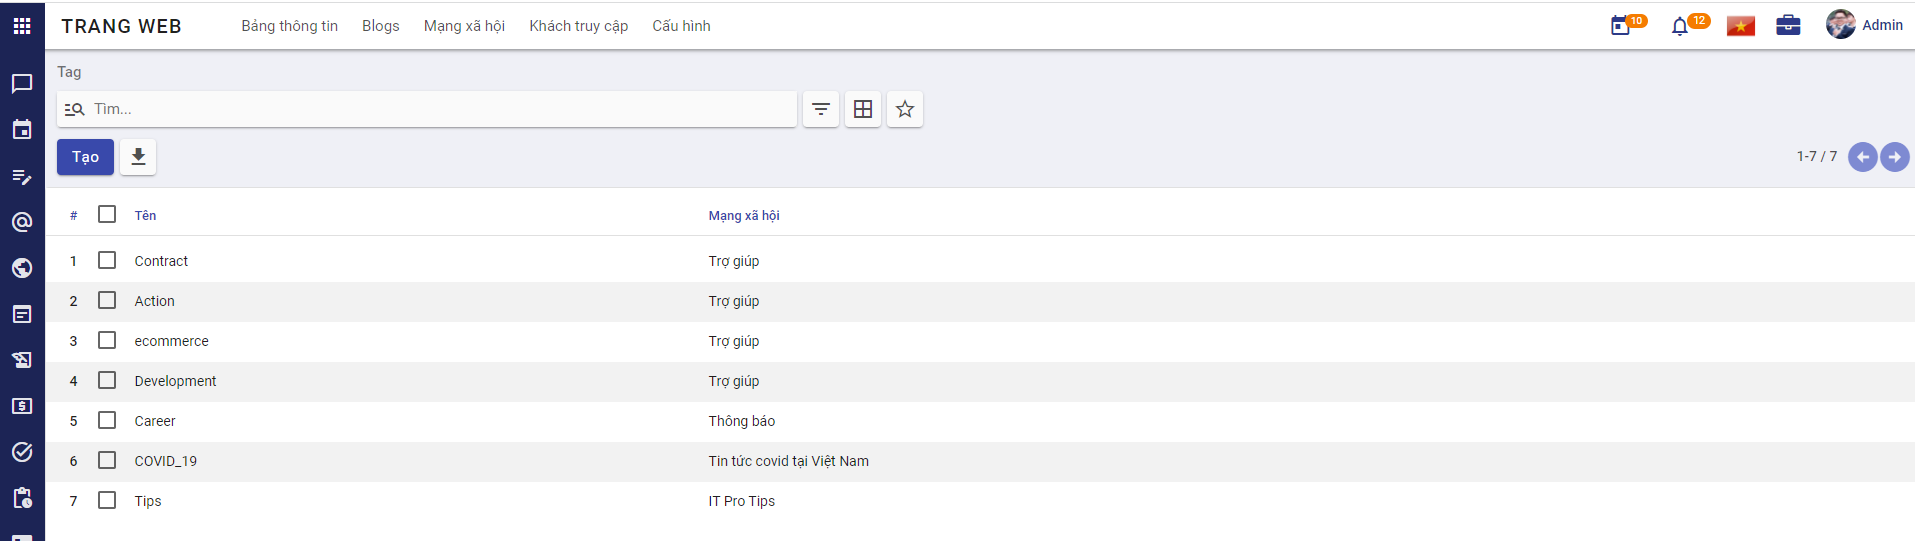
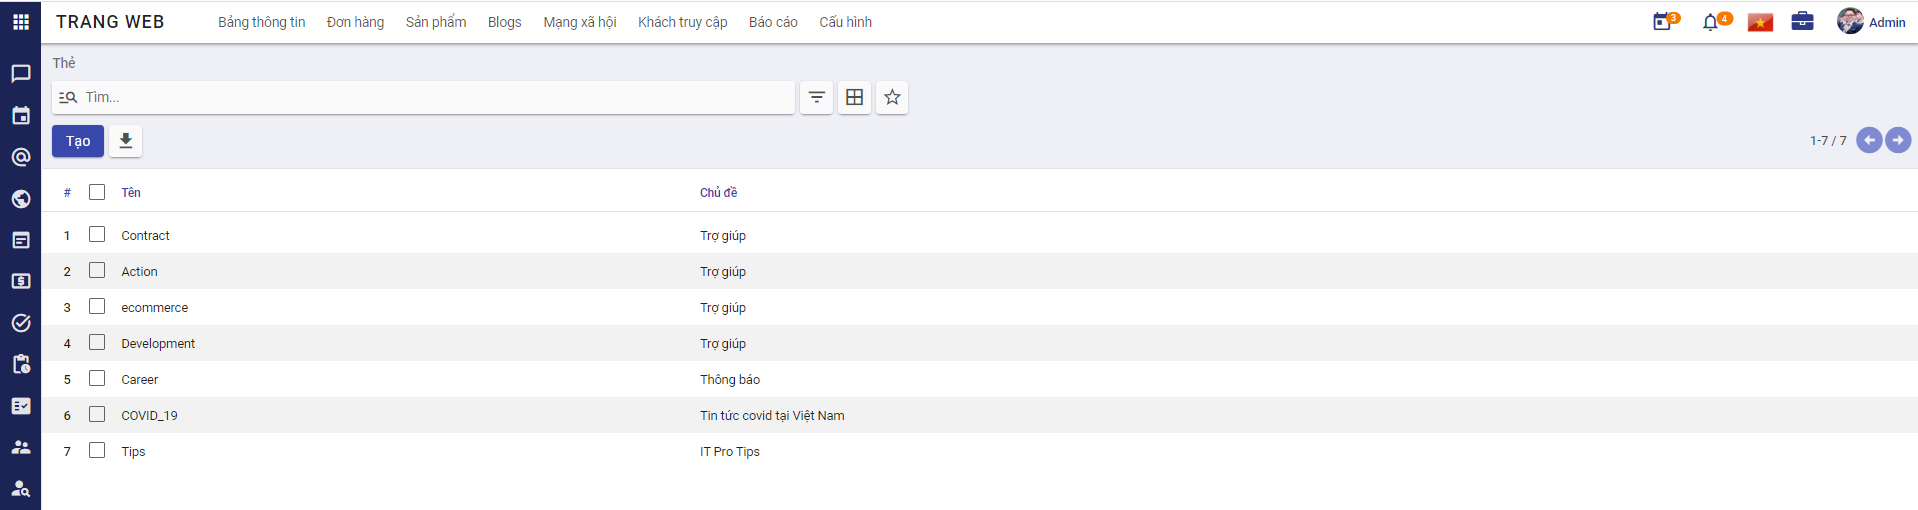
fix img social

diff --git a/docs/digitalworkplace/Addon-Social.md b/docs/digitalworkplace/Addon-Social.md
@@ -194,11 +194,13 @@ Người sử dụng thực hiện tạo các chủ đề cho mạng xã hội.
 
     ![](picture/PIC_DW_Social_ChuDe_1.png)
 
-2. Chọn tạo **Chủ đề**
+2. Chọn tạo **Chủ đề**  
+
+    ![](picture/PIC_DW_Social_ChuDe_2.png)
 
 3. Khai báo thông tin chung của **Chủ đề**
 
-    ![](picture/PIC_DW_Social_ChuDe_2.png)
+    ![](picture/PIC_DW_Social_ChuDe_3.png)
     
     * Khai báo Tên chủ đề
     
@@ -264,7 +266,7 @@ Cho phép người dùng xem danh sách các bài viết, tra cứu bài viết 
 
 **Đối tượng thực hiện:** Người dùng hệ thống
 
-1. Người dùng chọn menu Mạng xã hội
+1. Người dùng truye cập vào trang web, chọn menu **Mạng xã hội**.
 
     ![](picture/PIC_DW_Social_BaiViet_1.png)
 
@@ -414,11 +416,11 @@ Cho phép Quản trị hệ thống xem được chi tiết các bài viết, xe
 
 1. Vào phân hệ **Trang web**, chọn **Mạng xã hội/ Bài viết**
 
-    ![](picture/PIC_DW_Social_BaoCao_2.png)
+    ![](picture/PIC_DW_Social_Admin_BaiViet_1.png)
     
 2. Người dùng thực hiện quản lý danh sách bài viết mà các thành viên đã đăng.
 
-    ![](picture/PIC_DW_Social_BaoCao_3.png)
+    ![](picture/PIC_DW_Social_Admin_BaiViet_2.png)
     
 3. Nhấn **Xuất toàn bộ** để xuất toàn bộ danh sách bài viết.
 
@@ -426,11 +428,12 @@ Cho phép Quản trị hệ thống xem được chi tiết các bài viết, xe
 
 1. Vào phân hệ **Trang web**, chọn **Cấu hình/ Mạng xã hội/ Chủ đề**
 
-    ![](picture/PIC_DW_Social_ChuDe_1.png)
+    ![](picture/PIC_DW_Social_tag_1.png)
     
 2. Người dùng thực hiện xem thống kê số lượt xem, số bài đăng, số câu trả lời, số yêu thích theo từng chủ đề.
 
-    ![](picture/PIC_DW_Social_BaoCao_6.png)
+    ![](picture/PIC_DW_Social_ChuDe_2.png)
     
 3. Nhấn **Xuất toàn bộ** để xuất toàn bộ danh sách chủ đề.
+
  
